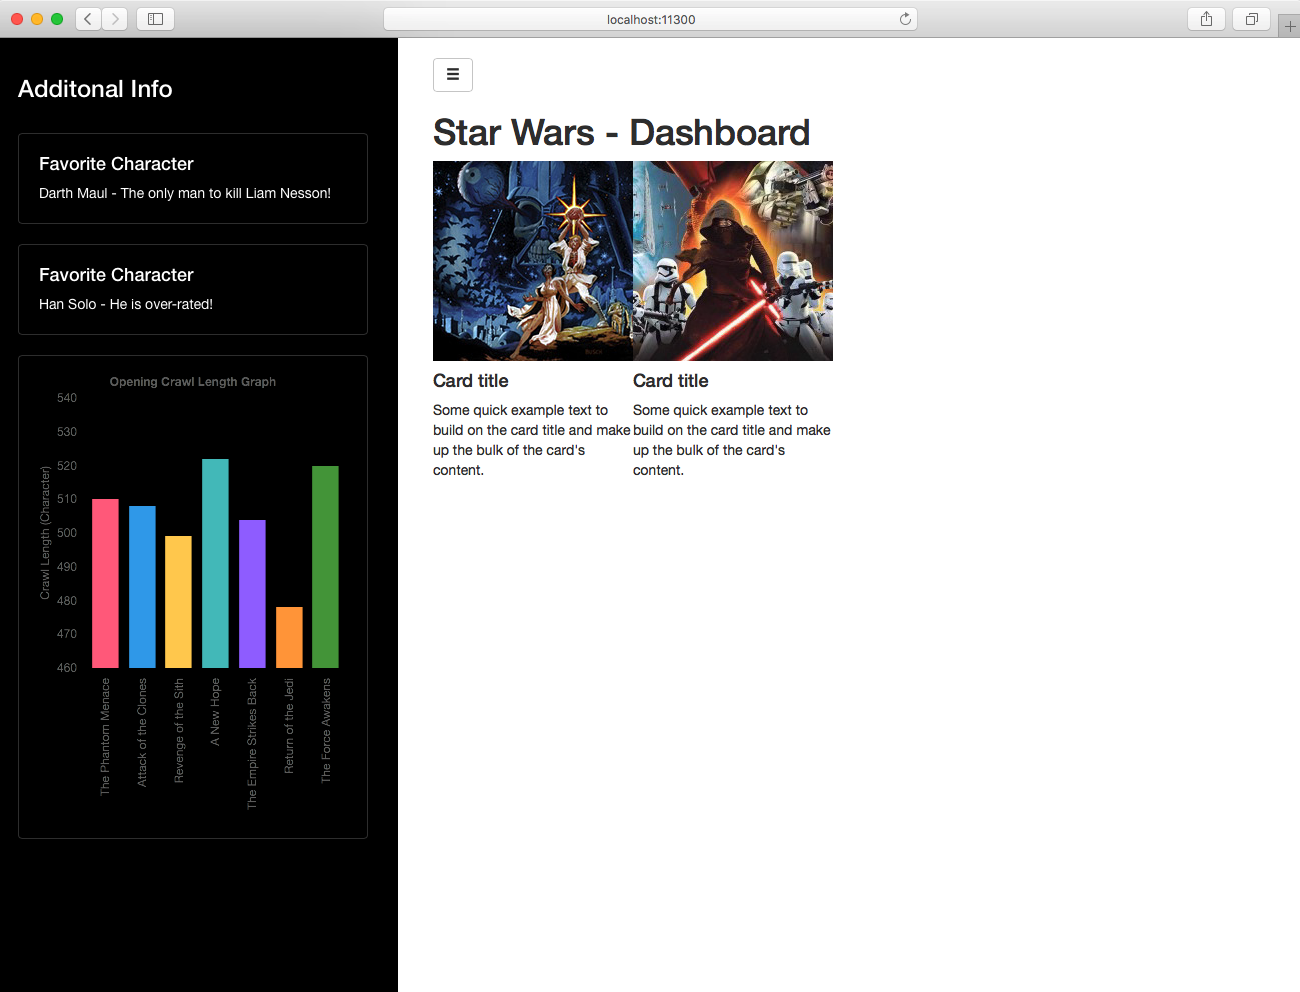
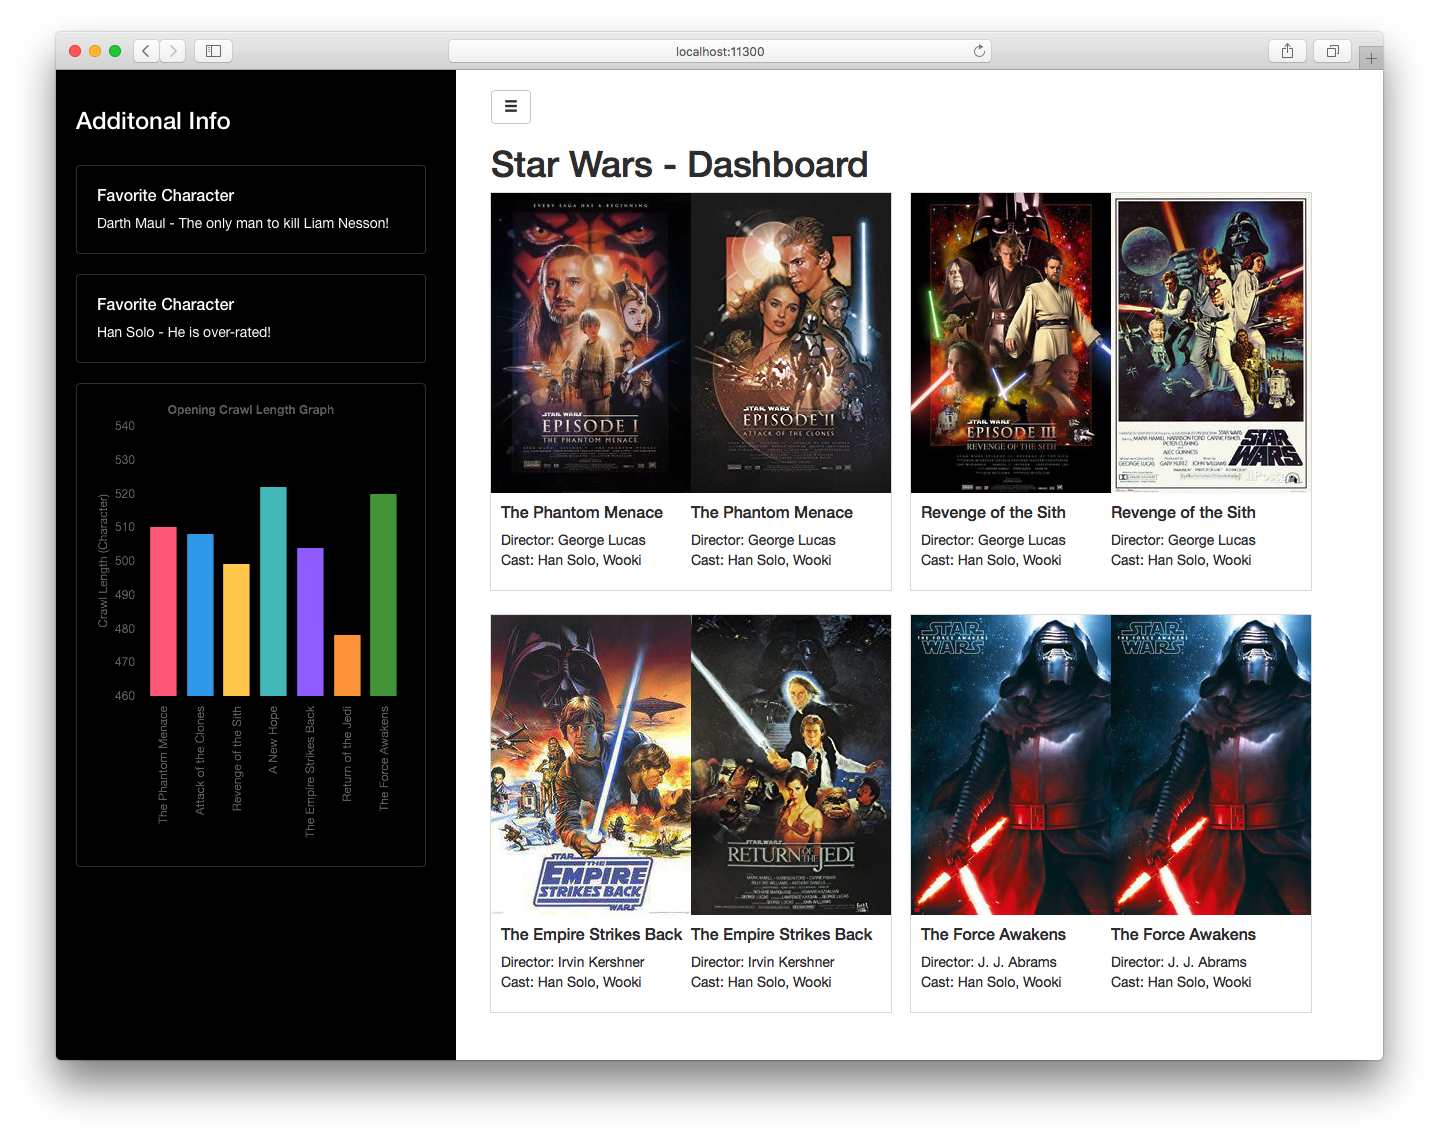
Updated card styles, moved card template to JS
Using jQuery at the moment to render template. Will move to a templating engine.

Updated the progress screenshot as well.

diff --git a/index.html b/index.html
@@ -51,19 +51,10 @@
         <div id="page-content-wrapper">
             <div class="container-fluid">
                 <div class="row">
-                    <div class="col-lg-12">
+                    <div class="col-lg-12" id="card-holder">
                         <a href="#menu-toggle" class="btn btn-default" id="menu-toggle"><span class="glyphicon glyphicon-menu-hamburger"></span></a>
                         <h1>Star Wars - Dashboard</h1>
-                         <div class="card">
-                        <img class="card-img-top" src="https://www.geekalerts.com/u/zombie-star-wars-movie-posters.jpg" alt="Card image cap">
-                        <img class="card-img-top" src="http://theactionelite.com/site/wp-content/uploads/2015/09/the-first-movie-posters-for-star-wars-the-force-awakens-might-have-leaked-200x200.jpg" alt="Card image cap">
-                        <div class="card-block">
-                            <h4 class="card-title">Card title</h4>
-                            <h4 class="card-title">Card title</h4>
-                            <span class="card-text">Some quick example text to build on the card title and make up the bulk of the card's content.</span>
-                            <span class="card-text">Some quick example text to build on the card title and make up the bulk of the card's content.</span>
-                        </div>
-                        </div>
+                        
                     </div>
                 </div>
             </div>

diff --git a/script.js b/script.js
@@ -76,7 +76,24 @@ var constructGraph = function(labels, scrollLength, graphData){
     
 };
 
-var createCardDeck = function(){
+var createCardDeck = function(data){
+    var template =  '';
+    var mainArea = document.getElementById('card-holder');
+    for (let i = 0; i < data.length; i+=2){
+        var currentPoster = i+1,
+            nextPoster = i+2;
+        template += '<div class="card">' +
+        '<img class="card-img-top" src="assets/'+ currentPoster +'.jpg" alt="Poster">' +
+        '<img class="card-img-top" src="assets/'+ nextPoster +'.jpg" alt="Poster">' +
+        '<div class="card-block">' +
+        '<h4 class="card-title">'+ data[i].title +'</h4>' +
+        '<h4 class="card-title">'+ data[i].title +'</h4>' +
+        '<span class="card-text"><div>Director: '+ data[i].director +' </div>Cast: Han Solo, Wooki</span>' +
+        '<span class="card-text"><div>Director: '+ data[i].director +' </div>Cast: Han Solo, Wooki</span>' +
+        '</div>' +
+        '</div>';
+    }
+    $(mainArea).append(template);
 
 };
 
@@ -92,6 +109,7 @@ var prepData = function(data){
         scrollLength.push(results[i].opening_crawl.length);
     }
     constructGraph(labels, scrollLength, graphData);
+    createCardDeck(results);
 }
 
 // Trigger on document ready

diff --git a/styles.css b/styles.css
@@ -2,6 +2,9 @@
     overflow-x: hidden;
  }
 
+h4{
+    font-size: 16px;
+}
 /* Toggle Styles */
 
 #wrapper {
@@ -67,6 +70,9 @@
 .card {
     display: inline-block;
     width: 400px;
+    margin: 0 20px 20px 0;
+    outline: 1px solid #ddd;
+    padding-bottom: 20px;
 }
 
 .card-img-top, .card-title, .card-text {
@@ -75,6 +81,10 @@
 
 .card-text, .card-title{
     width: 50%;
+}
+
+.card-block {
+    padding: 10px;
 }
 
 @media(min-width:768px) {
